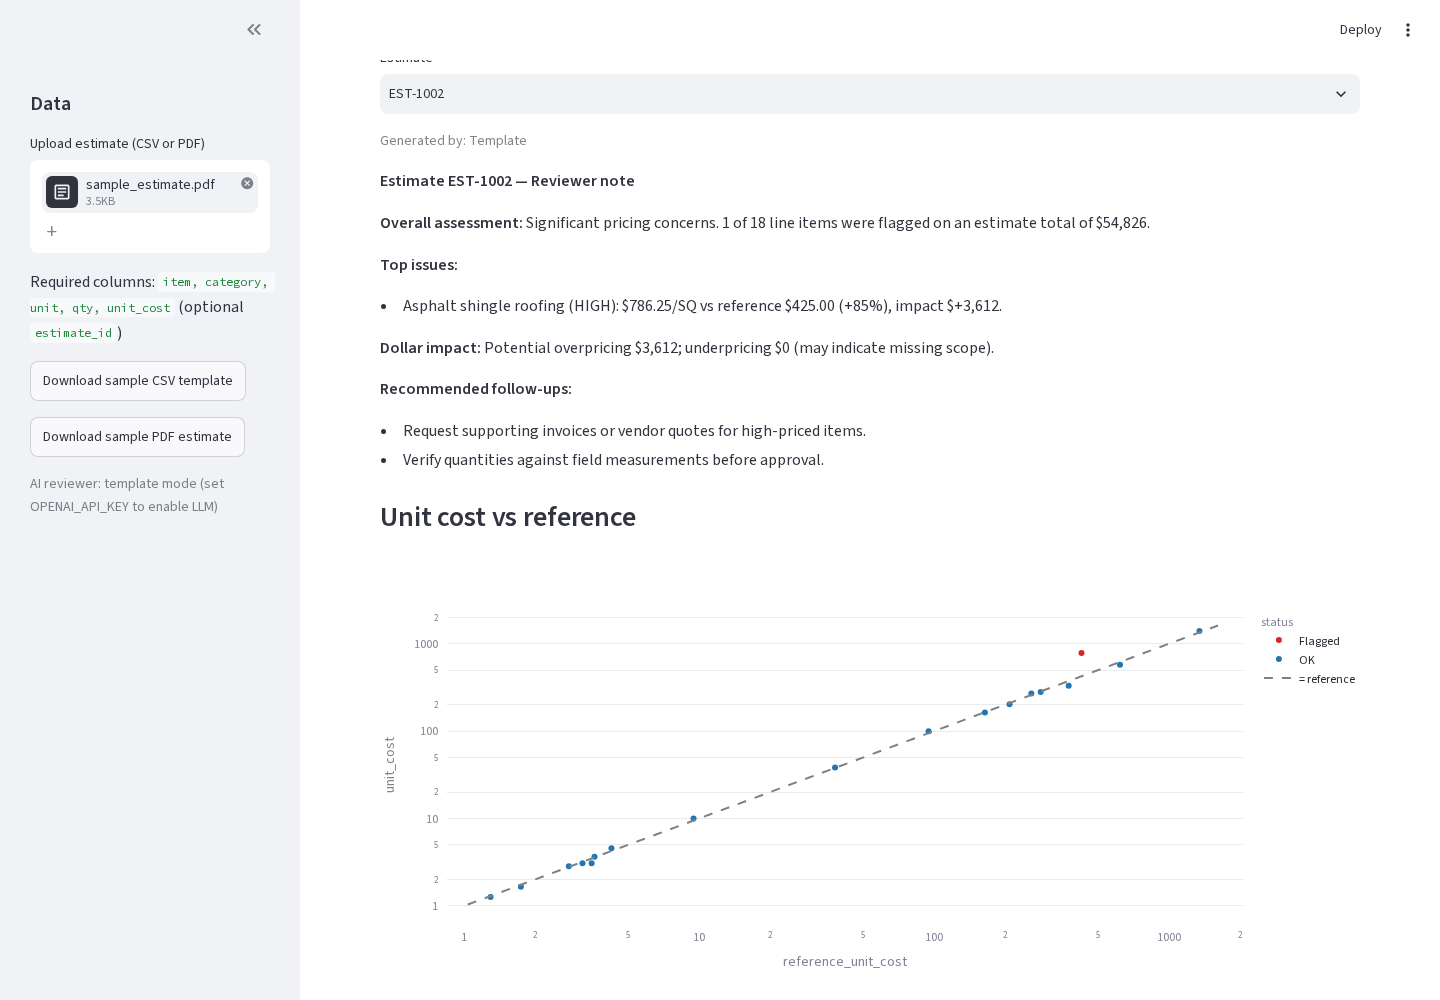
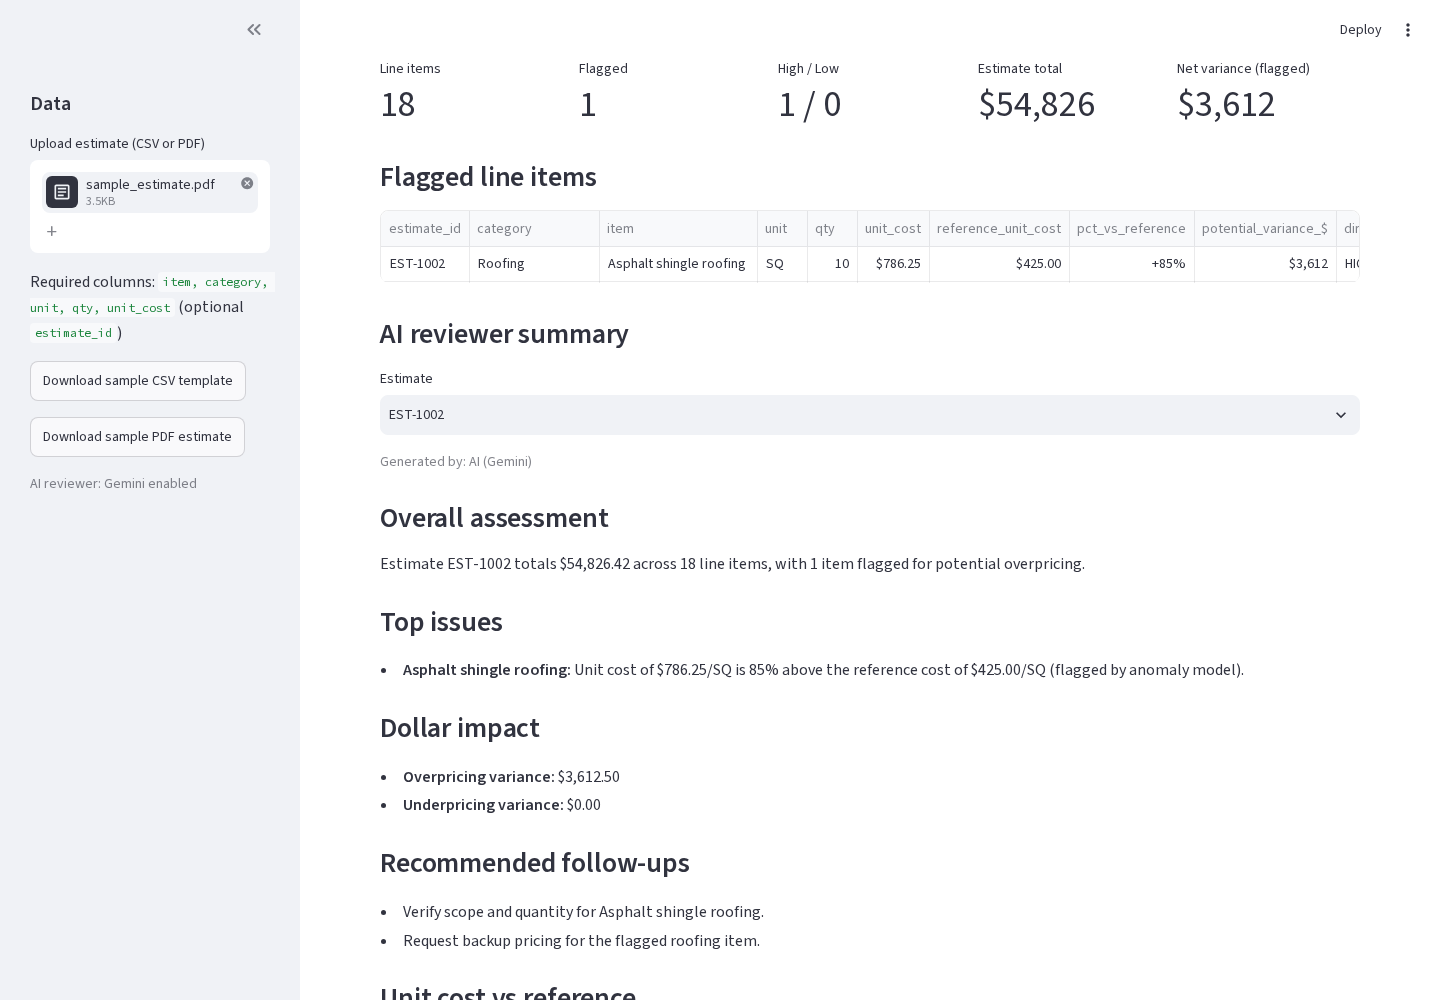
Switch AI reviewer to Gemini (free tier) with OpenAI + template fallback; Streamlit secrets; retry on 503; refresh screenshots

diff --git a/reviewer.py b/reviewer.py
@@ -1,15 +1,32 @@
 """
 AI reviewer summary: writes a reviewer-style note for one estimate.
 
-If the OPENAI_API_KEY environment variable is set (and the `openai` package is
-installed), an LLM writes the note from the checker's findings. Otherwise -- or
-if the API call fails -- a deterministic template writes it, so the app always works.
-Keys are only ever read from the environment; never put a key in this file.
+Provider order:
+  1. Google Gemini (free tier) if GEMINI_API_KEY or GOOGLE_API_KEY is set
+  2. OpenAI (optional) if OPENAI_API_KEY is set
+  3. Deterministic template (always works, no key needed)
+Keys are read from environment variables or Streamlit secrets (.streamlit/secrets.toml
+or the Streamlit Cloud "Secrets" box). Never put a key in this file.
 """
 import os
+import time
 import pandas as pd
 
-MODEL = os.getenv("OPENAI_MODEL", "gpt-4o-mini")
+
+def _get(name, default=None):
+    """Read a setting from the environment first, then Streamlit secrets."""
+    if os.getenv(name):
+        return os.getenv(name)
+    try:
+        import streamlit as st
+        return st.secrets.get(name, default)
+    except Exception:  # no secrets file / not running in Streamlit
+        return default
+
+
+GEMINI_DEFAULT_MODEL = "gemini-3.8-flash"
+GEMINI_BACKUP_MODEL = "gemini-3.5-flash-lite"  # used if the main model is busy (free tier 503s)
+OPENAI_DEFAULT_MODEL = "gpt-4o-mini"
 
 
 def _facts(df: pd.DataFrame, estimate_id: str) -> dict:
@@ -52,30 +69,65 @@ def template_summary(df: pd.DataFrame, estimate_id: str) -> str:
     return "\n".join(lines)
 
 
-def llm_summary(df: pd.DataFrame, estimate_id: str) -> str | None:
-    key = os.getenv("OPENAI_API_KEY")
-    if not key:
-        return None
-    try:
-        from openai import OpenAI
-        x = _facts(df, estimate_id)
-        issues = x["top"][["item", "unit", "unit_cost", "reference_unit_cost", "pct_vs_reference",
-                           "potential_variance_$", "direction", "reason"]].to_dict("records")
-        prompt = (
-            "You are a construction cost reviewer. Write a concise reviewer note in Markdown with sections "
+def _prompt(df, estimate_id) -> str:
+    x = _facts(df, estimate_id)
+    issues = x["top"][["item", "unit", "unit_cost", "reference_unit_cost", "pct_vs_reference",
+                       "potential_variance_$", "direction", "reason"]].to_dict("records")
+    return ("You are a construction cost reviewer. Write a concise reviewer note in Markdown with sections "
             "'Overall assessment', 'Top issues', 'Dollar impact', 'Recommended follow-ups'. Use only these "
             f"facts; do not invent numbers.\nEstimate: {estimate_id}\nLine items: {x['lines']}\n"
             f"Flagged: {x['flagged']}\nEstimate total: ${x['total']:,.2f}\n"
             f"Overpricing variance: ${x['high_var']:,.2f}\nUnderpricing variance: ${x['low_var']:,.2f}\n"
             f"Top flagged items: {issues}")
-        resp = OpenAI(api_key=key).chat.completions.create(
-            model=MODEL, messages=[{"role": "user", "content": prompt}], temperature=0.2, timeout=30)
-        return resp.choices[0].message.content
+
+
+def gemini_summary(prompt: str) -> str | None:
+    key = _get("GEMINI_API_KEY") or _get("GOOGLE_API_KEY")
+    if not key:
+        return None
+    try:
+        from google import genai
+        client = genai.Client(api_key=key, http_options={"timeout": 30000})
     except Exception:
-        return None  # fall back to the template
+        return None
+    models = [_get("GEMINI_MODEL", GEMINI_DEFAULT_MODEL), GEMINI_BACKUP_MODEL]
+    for model in dict.fromkeys(models):      # main model first, then backup
+        for attempt in range(2):            # one quick retry for "busy" errors
+            try:
+                resp = client.models.generate_content(model=model, contents=prompt,
+                                                      config={"temperature": 0.2})
+                if resp.text:
+                    return resp.text
+            except Exception as e:
+                if "API key" in str(e) or "PERMISSION" in str(e):
+                    return None             # bad key: no point retrying
+                time.sleep(1.5 * (attempt + 1))
+    return None
+
+
+def openai_summary(prompt: str) -> str | None:
+    key = _get("OPENAI_API_KEY")
+    if not key:
+        return None
+    try:
+        from openai import OpenAI
+        resp = OpenAI(api_key=key, timeout=30).chat.completions.create(
+            model=_get("OPENAI_MODEL", OPENAI_DEFAULT_MODEL),
+            messages=[{"role": "user", "content": prompt}], temperature=0.2)
+        return resp.choices[0].message.content or None
+    except Exception:
+        return None
+
+
+def llm_summary(df: pd.DataFrame, estimate_id: str) -> tuple[str, str] | None:
+    prompt = _prompt(df, estimate_id)
+    for fn, label in ((gemini_summary, "AI (Gemini)"), (openai_summary, "AI (OpenAI)")):
+        note = fn(prompt)
+        if note:
+            return note, label
+    return None
 
 
 def reviewer_summary(df: pd.DataFrame, estimate_id: str) -> tuple[str, str]:
-    """Returns (note, source) where source is 'AI (LLM)' or 'Template'."""
-    note = llm_summary(df, estimate_id)
-    return (note, "AI (LLM)") if note else (template_summary(df, estimate_id), "Template")
+    """Returns (note, source): source is 'AI (Gemini)', 'AI (OpenAI)' or 'Template'."""
+    return llm_summary(df, estimate_id) or (template_summary(df, estimate_id), "Template")

diff --git a/capture_screenshots.py b/capture_screenshots.py
@@ -1,23 +1,42 @@
-"""Capture README screenshots. Start the app first: streamlit run app.py --server.port 8599 --server.headless true
-Then: python capture_screenshots.py  (needs: playwright install chromium)"""
+"""Capture README screenshots.
+Start the app first:  streamlit run app.py --server.port 8599 --server.headless true
+Then run:             python capture_screenshots.py   (needs: playwright install chromium)"""
 from playwright.sync_api import sync_playwright
-D="docs/screenshots/"
-def wait(p):
-    p.wait_for_selector("text=AI reviewer summary", timeout=60000); p.wait_for_timeout(3500)
+
+D = "docs/screenshots/"
+
+
+def settle(p):
+    """Wait until Streamlit has finished running and the reviewer note is shown."""
+    p.wait_for_selector("text=Generated by", timeout=120000)
+    p.wait_for_timeout(1500)
+    # Streamlit shows a "Stop" button and a spinner while the script is still running
+    p.wait_for_function("""() => !document.body.innerText.includes('Writing reviewer note')
+        && ![...document.querySelectorAll('button')].some(b => b.innerText.trim() === 'Stop')""",
+                        timeout=180000)
+    p.wait_for_timeout(2000)
+
+
+def scroll_to(p, text):
+    p.get_by_text(text).first.evaluate("e => e.scrollIntoView({block: 'start'})")
+    p.wait_for_timeout(1200)
+
+
 with sync_playwright() as pw:
-    b=pw.chromium.launch(); p=b.new_page(viewport={"width":1440,"height":1000})
-    p.goto("http://localhost:8599"); wait(p)
-    p.screenshot(path=D+"01_dashboard.png")
-    p.get_by_text("Reviewer note").first.scroll_into_view_if_needed(); p.wait_for_timeout(800)
-    p.screenshot(path=D+"02_ai_reviewer_summary.png")
-    p.locator(".js-plotly-plot").first.scroll_into_view_if_needed(); p.wait_for_timeout(1500)
-    p.screenshot(path=D+"03_chart.png")
-    for f,name in [("data/sample_estimates.csv","04_csv_upload.png"),("data/sample_estimate.pdf","05_pdf_upload.png")]:
+    b = pw.chromium.launch()
+    p = b.new_page(viewport={"width": 1440, "height": 1000})
+    p.goto("http://localhost:8599"); settle(p)
+    p.screenshot(path=D + "01_dashboard.png")
+    print("reviewer source:", p.get_by_text("Generated by").first.inner_text())
+    scroll_to(p, "AI reviewer summary"); p.screenshot(path=D + "02_ai_reviewer_summary.png")
+    scroll_to(p, "Unit cost vs reference"); p.screenshot(path=D + "03_chart.png")
+    for f, name in [("data/sample_estimates.csv", "04_csv_upload.png"),
+                    ("data/sample_estimate.pdf", "05_pdf_upload.png")]:
         p.locator("input[type=file]").set_input_files(f)
-        p.wait_for_selector(f"text=Using uploaded file: {f.split('/')[-1]}", timeout=60000); wait(p)
-        assert p.locator("[data-testid=stException]").count()==0, f
-        p.evaluate("window.scrollTo(0,0)"); p.wait_for_timeout(500)
-        p.screenshot(path=D+name)
-        print(name, "ok; flagged metric:", p.locator("[data-testid=stMetricValue]").nth(1).inner_text())
+        p.wait_for_selector(f"text=Using uploaded file: {f.split('/')[-1]}", timeout=60000); settle(p)
+        assert p.locator("[data-testid=stException]").count() == 0, f
+        scroll_to(p, "Using uploaded file"); p.screenshot(path=D + name)
+        print(name, "ok; flagged:", p.locator("[data-testid=stMetricValue]").nth(1).inner_text(),
+              "|", p.get_by_text("Generated by").first.inner_text())
     print("exceptions on page:", p.locator("[data-testid=stException]").count())
     b.close()

diff --git a/app.py b/app.py
@@ -5,7 +5,7 @@ import streamlit as st
 import os
 from checker import analyze, summary, REQUIRED
 from pdf_parser import parse_pdf
-from reviewer import reviewer_summary
+from reviewer import reviewer_summary, _get
 
 st.set_page_config(page_title="Construction Cost Estimate Checker", layout="wide")
 st.title("🏗 AI Construction Cost Estimate Checker")
@@ -21,8 +21,10 @@ with st.sidebar:
         st.download_button("Download sample CSV template", fh, "sample_estimates.csv")
     with open("data/sample_estimate.pdf", "rb") as fh:
         st.download_button("Download sample PDF estimate", fh, "sample_estimate.pdf")
-    st.caption("AI reviewer: " + ("LLM enabled (OPENAI_API_KEY set)" if os.getenv("OPENAI_API_KEY")
-               else "template mode (set OPENAI_API_KEY to enable LLM)"))
+    provider = ("Gemini" if (_get("GEMINI_API_KEY") or _get("GOOGLE_API_KEY"))
+                else "OpenAI" if _get("OPENAI_API_KEY") else None)
+    st.caption(f"AI reviewer: {provider} enabled" if provider
+               else "AI reviewer: template mode (set GEMINI_API_KEY for a free AI-written note)")
 
 if up is not None:
     if up.name.lower().endswith(".pdf"):
@@ -56,7 +58,7 @@ c[4].metric("Net variance (flagged)", f'${s["net_variance_flagged_$"]:,.0f}')
 st.subheader("Flagged line items")
 show = ["estimate_id", "category", "item", "unit", "qty", "unit_cost", "reference_unit_cost",
         "pct_vs_reference", "potential_variance_$", "direction", "reason"]
-st.dataframe(df[df.flagged][show].style.format({"unit_cost": "${:,.2f}", "reference_unit_cost": "${:,.2f}",
+st.dataframe(df[df.flagged][show].style.format({"qty": "{:,.0f}", "unit_cost": "${:,.2f}", "reference_unit_cost": "${:,.2f}",
              "pct_vs_reference": "{:+.0%}", "potential_variance_$": "${:,.0f}"}),
              width="stretch", hide_index=True)
 
@@ -65,7 +67,12 @@ ids = sorted(df.estimate_id.unique())
 impact = df[df.flagged].assign(a=lambda d: d["potential_variance_$"].abs()).groupby("estimate_id").a.sum()
 default = ids.index(impact.idxmax()) if len(impact) else 0  # start on the estimate with the biggest issues
 sel = st.selectbox("Estimate", ids, index=default)
-note, source = reviewer_summary(df, sel)
+@st.cache_data(show_spinner="Writing reviewer note...")
+def cached_note(data: pd.DataFrame, estimate_id: str):
+    return reviewer_summary(data, estimate_id)  # cached so reruns don't call the AI again
+
+
+note, source = cached_note(df, sel)
 st.caption(f"Generated by: {source}")
 st.markdown(note.replace("$", "\\$"))  # escape $ so Streamlit doesn't treat it as math
 

diff --git a/tests_llm_fallback.py b/tests_llm_fallback.py
@@ -1,0 +1,13 @@
+"""Checks the reviewer falls back to the template with no key or an invalid key."""
+import os, pandas as pd
+from checker import analyze
+import reviewer
+df = analyze(pd.read_csv("data/sample_estimates.csv"), pd.read_csv("data/reference_unit_costs.csv"))
+for k in ("GEMINI_API_KEY", "GOOGLE_API_KEY", "OPENAI_API_KEY"):
+    os.environ.pop(k, None)
+assert reviewer.reviewer_summary(df, "EST-1005")[1] == "Template"; print("no key -> Template")
+for k in ("GEMINI_API_KEY", "GOOGLE_API_KEY", "OPENAI_API_KEY"):
+    os.environ[k] = "invalid-test-key"
+    assert reviewer.reviewer_summary(df, "EST-1005")[1] == "Template"; print(f"invalid {k} -> Template")
+    os.environ.pop(k)
+print("FALLBACK TESTS PASSED")

diff --git a/tests_smoke.py b/tests_smoke.py
@@ -9,7 +9,7 @@ ref = pd.read_csv("data/reference_unit_costs.csv")
 # 1. App with sample data
 at = AppTest.from_file("app.py", default_timeout=60).run()
 assert not at.exception, at.exception
-assert any("Reviewer note" in m.value for m in at.markdown)
+assert any("Generated by" in c.value for c in at.caption)
 print("app (sample data): OK,", [(m.label, m.value) for m in at.metric])
 # 2. CSV path (same code the app runs after upload)
 csv = pd.read_csv("data/sample_estimates.csv")

diff --git a/README.md b/README.md
@@ -21,7 +21,15 @@ PDF estimates are read with `pdfplumber`: the tool finds the line-item table and
 An item is flagged if it misses the reference threshold, or if at least two checks agree. Each flag gets a reason (e.g. *"Unit cost $786.25/SQ is 85% above the reference $425.00; outlier vs 7 peer estimates… Verify scope/quantity or request backup pricing."*) and a dollar variance (`(unit cost − reference) × qty`).
 
 ### AI reviewer summary
-For each estimate the app writes a reviewer-style note: overall assessment, top issues, dollar impact, and recommended follow-ups. If an `OPENAI_API_KEY` environment variable is set, an LLM writes the note using only the checker's computed facts; with no key (or if the call fails) a deterministic template writes it, so the app always works. Keys are read from the environment only and are never stored in the code.
+For each estimate the app writes a reviewer-style note: overall assessment, top issues, dollar impact, and recommended follow-ups. An LLM writes the note using only the checker's computed facts, with this fallback order:
+
+1. **Google Gemini** (primary, free tier): `GEMINI_API_KEY` or `GOOGLE_API_KEY`, model via `GEMINI_MODEL` (default `gemini-3.8-flash`)
+2. **OpenAI** (optional): `OPENAI_API_KEY`, model via `OPENAI_MODEL`
+3. **Deterministic template**: no key needed, so the app always works
+
+If the free-tier Gemini model is busy (HTTP 503), the tool retries and then tries `gemini-3.5-flash-lite` before falling back. Notes are cached per estimate so the app doesn't call the API again on every rerun.
+
+Keys are read from environment variables or Streamlit secrets (`.streamlit/secrets.toml`, git-ignored, or the Secrets box on Streamlit Community Cloud). They are never stored in the code.
 
 ## Screenshots
 *(All data shown is synthetic.)*
@@ -53,8 +61,10 @@ python checker.py                # command-line report -> flagged_report.csv
 streamlit run app.py             # web app at http://localhost:8501
 python tests_smoke.py            # smoke tests: sample, CSV and PDF paths
 
-# optional: AI-written reviewer notes
-export OPENAI_API_KEY=your_key_here   # Windows: set OPENAI_API_KEY=...
+python tests_llm_fallback.py     # reviewer falls back to template with no/invalid key
+
+# optional: AI-written reviewer notes (free key: https://aistudio.google.com/app/apikey)
+export GEMINI_API_KEY=your_key_here   # Windows: set GEMINI_API_KEY=...
 ```
 In the app you can use the sample data or upload a PDF estimate or your own CSV with columns `item, category, unit, qty, unit_cost` (optional `estimate_id`). Item names must match `data/reference_unit_costs.csv` for the reference check.
 
@@ -62,10 +72,11 @@ In the app you can use the sample data or upload a PDF estimate or your own CSV 
 ```
 app.py                     Streamlit web app (upload, metrics, flagged table, chart)
 checker.py                 Analysis logic (reference, peer, and ML checks)
-reviewer.py                AI reviewer note (LLM if key set, template otherwise)
+reviewer.py                AI reviewer note (Gemini → OpenAI → template)
 pdf_parser.py              Reads line-item tables from PDF estimates
 make_sample_pdf.py         Builds the synthetic sample PDF estimate
 tests_smoke.py             Smoke tests for sample / CSV / PDF paths
+tests_llm_fallback.py      Tests the no-key / invalid-key fallback
 capture_screenshots.py     Regenerates the README screenshots
 generate_sample_data.py    Builds the synthetic dataset
 data/                      Synthetic sample estimates (CSV + PDF) + reference unit costs
@@ -74,7 +85,7 @@ WALKTHROUGH.md             Plain-English tour of the code
 ```
 
 ## Tech
-Python · pandas · NumPy · scikit-learn · Streamlit · Plotly · pdfplumber · OpenAI API (optional)
+Python · pandas · NumPy · scikit-learn · Streamlit · Plotly · pdfplumber · Google Gemini API · OpenAI API (optional)
 
 ## Next steps
 - Support regional cost adjustments

diff --git a/WALKTHROUGH.md b/WALKTHROUGH.md
@@ -17,7 +17,7 @@ The settings at the top (`REF_PCT_THRESHOLD`, etc.) control how strict it is.
 
 **`app.py`** – The website. Streamlit turns Python into a web page: sidebar to upload a file, metric cards across the top, a table of flagged items, and a scatter chart (dots far from the dashed line are priced far from the reference).
 
-**`reviewer.py`** – Writes the "reviewer note" for one estimate, like a short memo a cost reviewer would send: overall verdict, the biggest problems, how many dollars are at stake, and what to do next. If you've set an `OPENAI_API_KEY` (a password for OpenAI's AI service), it sends the checker's numbers to the AI and asks it to write the memo, telling it not to make up any numbers. If there's no key, it fills in a fixed fill-in-the-blanks template instead, so the app works either way. The key lives only in your computer's settings, never in the code (so it never ends up on GitHub).
+**`reviewer.py`**: writes the "reviewer note" for one estimate, like a short memo a cost reviewer would send: overall verdict, the biggest problems, how many dollars are at stake, and what to do next. It tries, in order: **Google Gemini** (free), then **OpenAI** (only if you have that key), then a fill-in-the-blanks **template**. The AI gets only the checker's numbers and is told not to make any up. If no key is set, or a key is wrong, it quietly uses the template, so the app never breaks. The app shows which one wrote the note ("Generated by: …").
 
 **`pdf_parser.py`** – Lets you upload a PDF estimate. It uses `pdfplumber` to find the table in the PDF, then figures out which column is which even if the names differ ("Description" = item, "UOM" = unit, "Unit Price" = unit cost). It also strips `$` and commas so prices become numbers.
 
@@ -29,8 +29,20 @@ The settings at the top (`REF_PCT_THRESHOLD`, etc.) control how strict it is.
 
 **`requirements.txt`** – The list of Python libraries to install.
 
-## Using an AI key (optional)
-Mac/Linux: `export OPENAI_API_KEY=your_key`, Windows: `set OPENAI_API_KEY=your_key`, then `streamlit run app.py`. The reviewer section will say "Generated by: AI (LLM)". Never paste the key into a file you commit.
+## Using a free AI key (optional)
+1. Go to **https://aistudio.google.com/app/apikey**, sign in with a Google account, and click **Create API key**. Copy it. (The free tier costs nothing. Google may use free-tier requests to improve its products, which is fine here because the data is synthetic.)
+2. Tell your computer about it (only for the current terminal window):
+   - Mac/Linux: `export GEMINI_API_KEY=your_key`
+   - Windows: `set GEMINI_API_KEY=your_key`
+3. Run `streamlit run app.py`. The sidebar says "Gemini enabled" and notes say "Generated by: AI (Gemini)".
+
+**Alternative:** create a file `.streamlit/secrets.toml` containing `GEMINI_API_KEY = "your_key"`. This file is in `.gitignore`, so it never goes to GitHub. When you deploy on Streamlit Community Cloud, paste the same line into the app's **Secrets** settings instead.
+
+**Never** paste the key into a `.py` file or commit it. If one leaks, delete it in AI Studio and make a new one.
+
+If the note says "Generated by: Template" even though your key is set, Google's free model was probably busy. It retries automatically. Wait a minute and refresh.
+
+To try a different model, set `GEMINI_MODEL` (for example `gemini-3.5-flash-lite`).
 
 ## Try these edits yourself
 1. **Make it stricter.** In `checker.py`, change `REF_PCT_THRESHOLD = 0.25` to `0.15`. Run `python checker.py` again — more items get flagged. Talk about this trade-off in interviews (catching more vs. false alarms).
